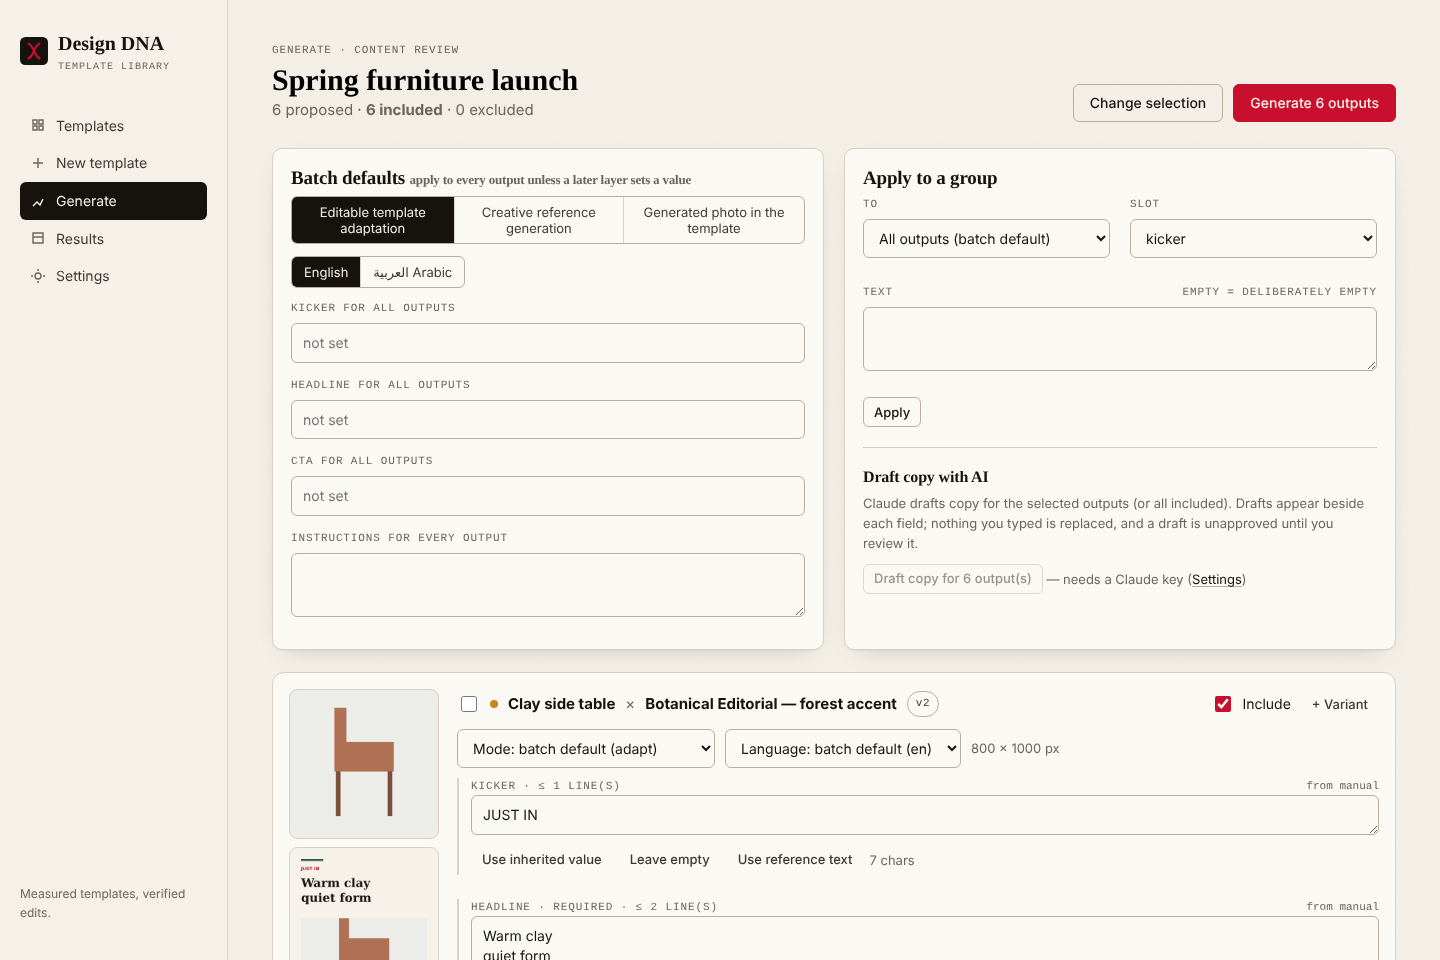
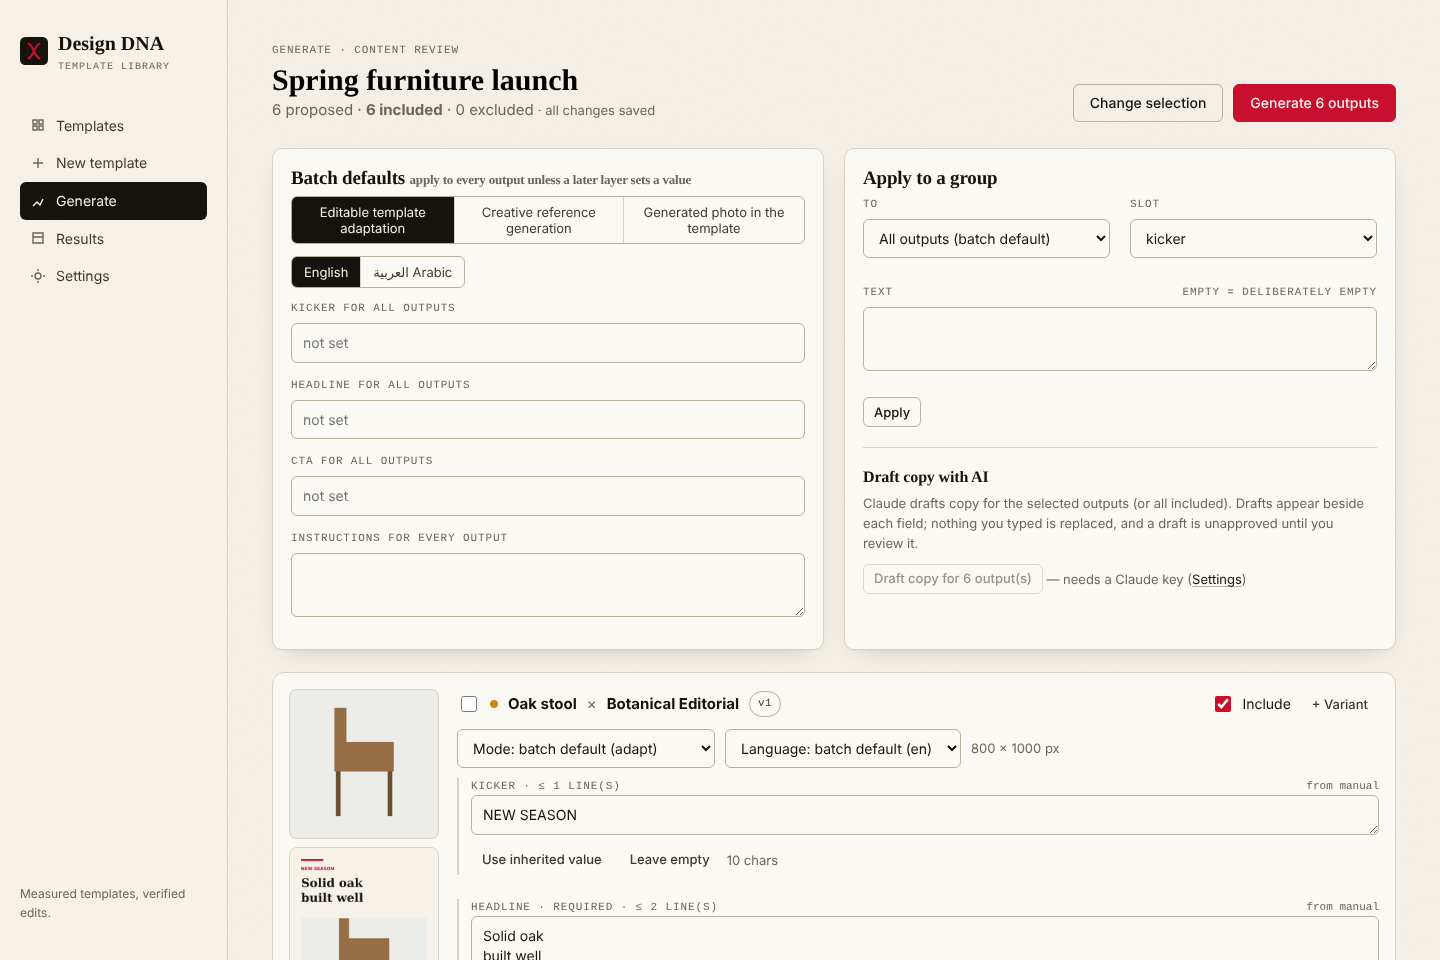
Docs: final verification of the D1-D4 fixes; composer screenshots with the save status
Claude-Session: https://claude.ai/code/session_01CeMfYoUFyLvUHjJp1sYQQd

diff --git a/docs/DASHBOARD-REPORT.md b/docs/DASHBOARD-REPORT.md
@@ -140,12 +140,12 @@ staging copies and per-job stores are separate folders, and an engine step dies 
 
 | Check | Command | Result |
 |---|---|---|
-| Dashboard integration suite (real engine, real Chromium, real worker process; test-only mock providers) | `python -m unittest -v test_intake test_templates test_batches test_execution test_ui` | 51 tests, OK, none skipped (after the D1–D4 fixes; 38 before them) |
-| Engine acceptance (portable fonts, Linux) | `DESIGN_DNA_FONTSET=portable python skills/reverse-design/tests/run_acceptance.py` | 35 passed, 2 unverified (T21 needs a second browser channel; T23 host storage by design); includes T34–T37 and main's 8-launch T10; same result after merging `main` |
+| Dashboard integration suite (real engine, real Chromium, real worker process; test-only mock providers) | `python -m unittest -v test_intake test_templates test_batches test_execution test_ui` | 64 tests, OK, none skipped, on the final code (38 before the D1–D4 fixes) |
+| Engine acceptance (portable fonts, Linux) | `DESIGN_DNA_FONTSET=portable python skills/reverse-design/tests/run_acceptance.py` | 35 passed, 2 unverified (T21 needs a second browser channel; T23 host storage by design); includes T34–T37 and main's 8-launch T10; same result after merging `main` and again with the D1–D4 fixes (the engine itself did not change) |
 | Installer and package tests | `python -m unittest discover -s hosts/tests` | 16 tests, OK |
 | Generated docs are current | `python install.py docs --check` | up to date |
 | Static checks | `python -m pyflakes skills/reverse-design/scripts skills/reverse-design/tests hosts install.py dashboard/server dashboard/tests`; `npm run build` (tsc + vite) | clean |
-| Container | `docker build -f dashboard/Dockerfile .`, web + worker containers, full flow inside | image built; health 200, unauthenticated 401; template measured → rebuilt (`partial_baseline`, reproduces) → v1 → output `completed`, verification `pass`, SVG round trip `pass` → ZIP |
+| Container | `docker build -f dashboard/Dockerfile .`, web + worker containers, full flow inside | image built from the final code; health 200, unauthenticated 401, worker check; template measured → rebuilt (`partial_baseline`, reproduces) → v1 → output `completed`, verification `pass`, SVG round trip `pass` → ZIP; submission lookup and repeat return the same run. With the labelled mock provider (no keys, no billable request): creative overlay `completed`, verification `pass`, SVG round trip `pass`, the headline live in the SVG, one stored request; overflowing copy refused before the request (0 requests) |
 
 **Not run:**
 
@@ -155,6 +155,11 @@ staging copies and per-job stores are separate folders, and an engine step dies 
 - Engine T21 needs a second browser channel; T23 (host storage) is unverified by design.
 - A screen-reader pass.
 - A browser clipboard paste.
+- For D1–D4: a real image model (whether it keeps the text areas calm and spells drawn text correctly); a power cut
+  during a checkpoint write (only process kills were tested); two browsers, rather than two tabs, editing or
+  submitting the same batch; the D3 and D4 failures were confirmed against the merged code by reading it, not by
+  running it (the crash points did not exist there).
+- No customer keys were used and no billable requests were made.
 
 The container build here needed one environment workaround. This sandbox's network blocks the Debian package
 mirror, so the image uses Playwright's official base image, which already contains the browser libraries. The
